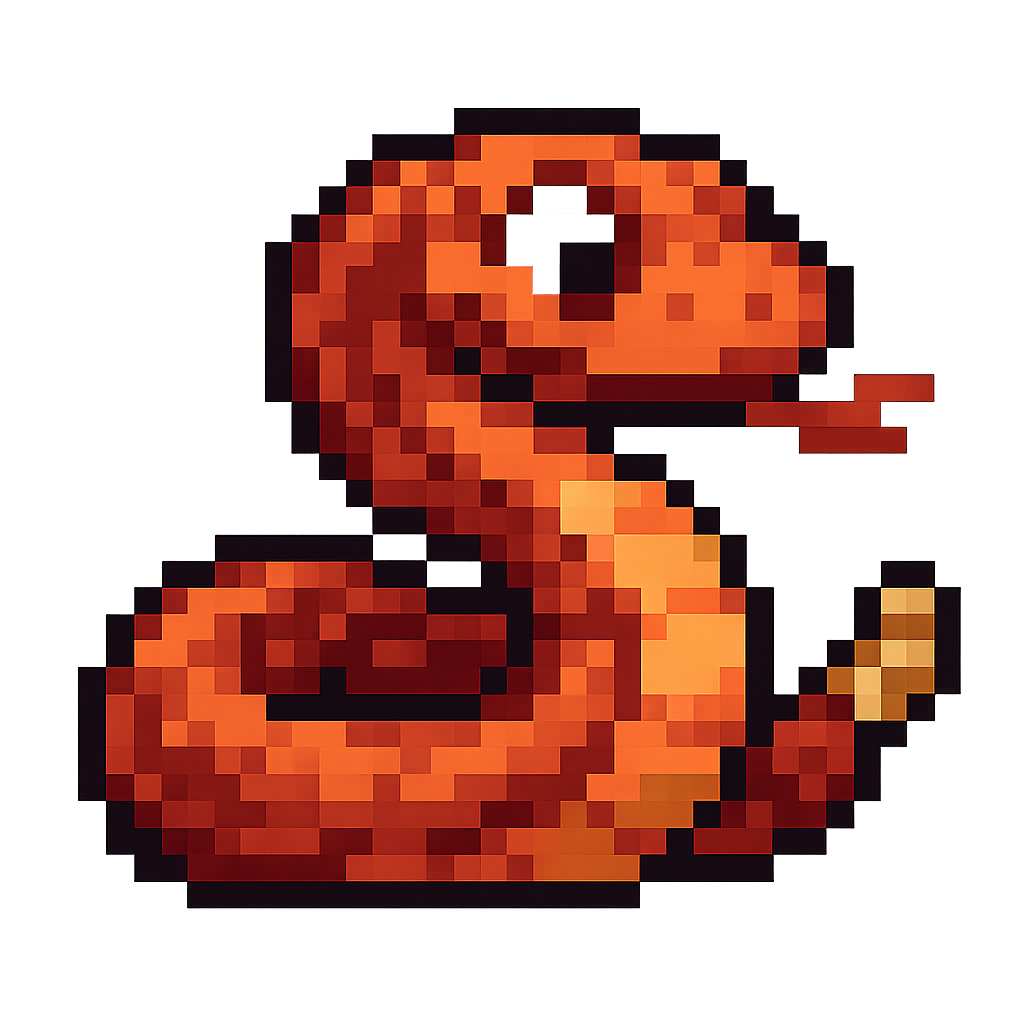
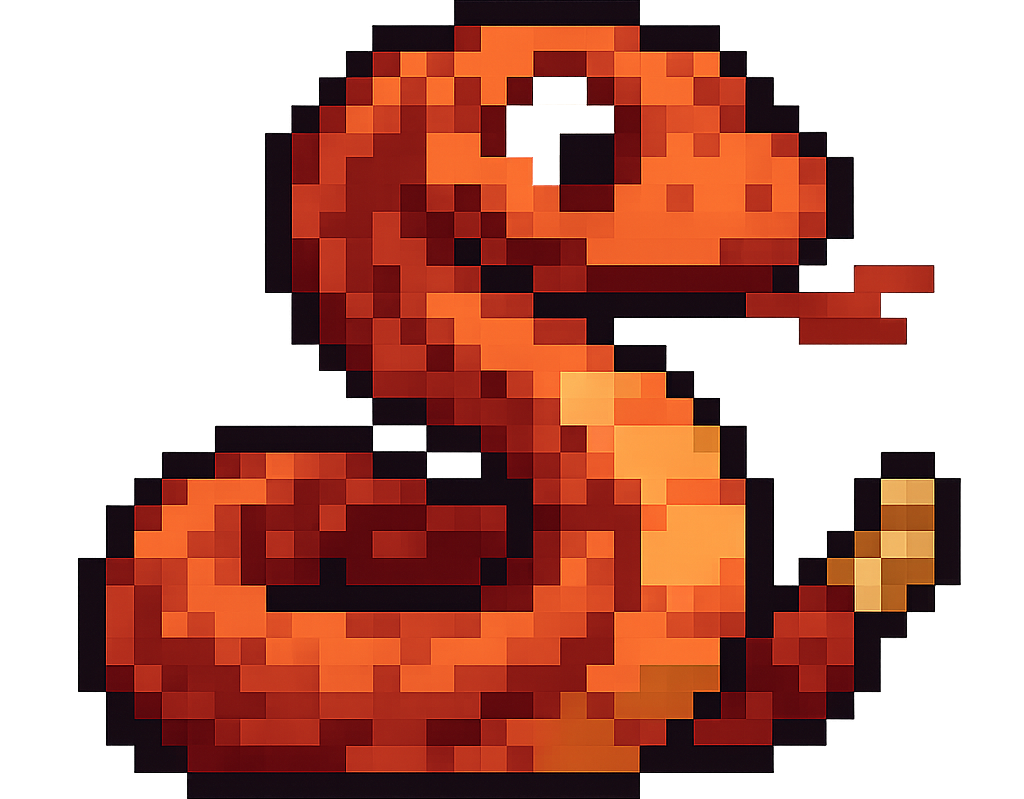
Add jump graphic for boss and dart frog and make it so that dart frog is included in waves. Add ability to drop through lily pads to the water with down action. Tweak title screen. Clean up some warnings we were getting in the JS console. v0.4.3

diff --git a/game.js b/game.js
@@ -46,8 +46,10 @@ const assets = {
         'frog_small_jumping': 'graphics/frog_small_jumping.png',
         'frog_medium_idle': 'graphics/frog_medium_idle.png',
         'frog_medium_jumping': 'graphics/frog_medium_jumping.png',
-        'frog_large_boss': 'graphics/frog_large_boss.png',
-        'frog_poison_dart': 'graphics/frog_poison_dart.png',
+        'frog_large_boss_idle': 'graphics/frog_large_boss_idle.png',
+        'frog_large_boss_jumping': 'graphics/frog_large_boss_jumping.png',
+        'frog_poison_dart_idle': 'graphics/frog_poison_dart_idle.png',
+        'frog_poison_dart_jumping': 'graphics/frog_poison_dart_jumping.png',
 
         // Environment
         'lilypad_small': 'graphics/lilypad_small.png',
@@ -148,21 +150,21 @@ const audioManager = {
             this.longPressTimer = setTimeout(() => {
                 this.showVolumeMenu();
             }, 500);
-        });
+        }, { passive: true });
 
         this.toggleButton.addEventListener('touchend', () => {
             if (this.longPressTimer) {
                 clearTimeout(this.longPressTimer);
                 this.longPressTimer = null;
             }
-        });
+        }, { passive: true });
 
         this.toggleButton.addEventListener('touchmove', () => {
             if (this.longPressTimer) {
                 clearTimeout(this.longPressTimer);
                 this.longPressTimer = null;
             }
-        });
+        }, { passive: true });
 
         // Close menu when clicking outside
         document.addEventListener('click', (e) => {
@@ -193,7 +195,7 @@ const audioManager = {
         };
         document.addEventListener('click', startAudioOnInteraction);
         document.addEventListener('keydown', startAudioOnInteraction);
-        document.addEventListener('touchstart', startAudioOnInteraction);
+        document.addEventListener('touchstart', startAudioOnInteraction, { passive: true });
     },
 
     initVolumeSliders() {
@@ -444,12 +446,27 @@ class Entity {
                              this.y + this.height >= pad.y - 5 &&  // 5px tolerance above
                              this.y + this.height <= pad.y + 15;   // 15px tolerance below
 
-            if (isNearPad && this.vy >= 0) {
+            if (isNearPad && this.vy >= 0 && !this.droppingThrough) {
                 this.y = pad.y - this.height;
                 this.vy = 0;
                 this.onGround = true;
                 onLilyPad = true;
                 break;
+            }
+        }
+        // Reset droppingThrough flag if we've passed below all lily pads
+        if (this.droppingThrough) {
+            let stillDroppingThrough = false;
+            for (const pad of game.lilyPads) {
+                const overlapsHorizontally = this.x < pad.x + pad.width && this.x + this.width > pad.x;
+                const isAboveOrNear = this.y + this.height <= pad.y + 20;
+                if (overlapsHorizontally && isAboveOrNear) {
+                    stillDroppingThrough = true;
+                    break;
+                }
+            }
+            if (!stillDroppingThrough) {
+                this.droppingThrough = false;
             }
         }
 
@@ -494,6 +511,7 @@ class Snake extends Entity {
         this.grabCooldown = 0;
         this.invulnerable = 0;
         this.segments = [];
+        this.droppingThrough = false; // Flag for dropping through lily pads
         this.initSegments();
     }
 
@@ -573,6 +591,20 @@ class Snake extends Entity {
             this.onGround = false;
             if (this.inWater) {
                 createSplash(this.x + this.width / 2, this.y + this.height);
+            }
+        }
+
+        // Drop through lily pad
+        if (playerInput.y > 0 && this.onGround && !this.inWater && !this.droppingThrough) {
+            // Check if on a lily pad (not on water surface)
+            for (const pad of game.lilyPads) {
+                const isOnPad = this.x < pad.x + pad.width &&
+                               this.x + this.width > pad.x &&
+                               Math.abs(this.y + this.height - pad.y) < 5;
+                if (isOnPad) {
+                    this.droppingThrough = true;
+                    break;
+                }
             }
         }
 
@@ -800,15 +832,16 @@ class Frog extends Entity {
     constructor(x, y, type = 'small') {
         super(x, y, 30, 30);
         this.type = type;
-        this.health = type === 'small' ? 20 : type === 'medium' ? 40 : 80;
+        this.health = type === 'small' ? 20 : type === 'medium' ? 40 : type === 'poison_dart' ? 15 : 80;
         this.maxHealth = this.health;
         this.alive = true;
         this.jumpTimer = 0;
         this.jumpCooldown = Math.random() * 60 + 40;
-        this.color = type === 'small' ? '#4CAF50' : type === 'medium' ? '#2196F3' : '#FF5722';
+        this.color = type === 'small' ? '#4CAF50' : type === 'medium' ? '#2196F3' : type === 'poison_dart' ? '#FF00FF' : '#FF5722';
         this.attackTimer = 0;
         this.facing = 1; // 1 = right, -1 = left
         this.groundedFrames = 0; // Track how long we've been on ground
+        this.hueRotation = type === 'poison_dart' ? Math.floor(Math.random() * 360) : 0; // Random color for poison darts
 
         // Type specific properties
         if (type === 'small') {
@@ -819,6 +852,10 @@ class Frog extends Entity {
             this.width = 40;
             this.height = 40;
             this.jumpPower = 12;
+        } else if (type === 'poison_dart') {
+            this.width = 25;
+            this.height = 25;
+            this.jumpPower = 14;
         } else {
             this.width = 60;
             this.height = 60;
@@ -865,7 +902,7 @@ class Frog extends Entity {
             const dist = Math.sqrt(dx * dx + dy * dy);
 
             if (dist < 35) {
-                target.takeDamage(this.type === 'small' ? 3 : this.type === 'medium' ? 6 : 12);
+                target.takeDamage(this.type === 'small' ? 3 : this.type === 'medium' ? 6 : this.type === 'poison_dart' ? 10 : 12);
                 this.attackTimer = 0;
             }
         }
@@ -906,19 +943,22 @@ class Frog extends Entity {
 
     die() {
         this.alive = false;
-        game.score += this.type === 'small' ? 10 : this.type === 'medium' ? 25 : 50;
+        game.score += this.type === 'small' ? 10 : this.type === 'medium' ? 25 : this.type === 'poison_dart' ? 35 : 50;
         createDeathEffect(this.x + this.width / 2, this.y + this.height / 2);
     }
 
     draw(ctx) {
         if (!this.alive) return;
 
+
         // Determine which sprite to use
         // Require 3 frames on ground before showing idle sprite to prevent jittering
         const isInAir = this.groundedFrames < 3;
         let spriteName;
         if (this.type === 'large') {
-            spriteName = 'frog_large_boss';
+            spriteName = isInAir ? 'frog_large_boss_jumping' : 'frog_large_boss_idle';
+        } else if (this.type === 'poison_dart') {
+            spriteName = isInAir ? 'frog_poison_dart_jumping' : 'frog_poison_dart_idle';
         } else if (this.type === 'medium') {
             spriteName = isInAir ? 'frog_medium_jumping' : 'frog_medium_idle';
         } else {
@@ -957,6 +997,10 @@ class Frog extends Entity {
 
             // Flip sprite based on facing direction
             ctx.save();
+            // Apply hue rotation for poison dart frogs
+            if (this.type === 'poison_dart') {
+                ctx.filter = `hue-rotate(${this.hueRotation}deg)`;
+            }
             if (this.facing < 0) {
                 ctx.translate(drawX + spriteWidth / 2, drawY + spriteHeight / 2);
                 ctx.scale(-1, 1);
@@ -1230,8 +1274,8 @@ function initGame() {
 
             // Check if clicked on left snake (P1)
             const leftSnakeX = 270;
-            const leftSnakeY = 200;
-            const snakeSize = 85;
+            const leftSnakeY = 195;
+            const snakeSize = 66; // Match green snake size
             const leftHitbox = {
                 x: leftSnakeX - snakeSize / 2,
                 y: leftSnakeY - snakeSize / 2,
@@ -1241,7 +1285,7 @@ function initGame() {
 
             // Check if clicked on right snake (P2)
             const rightSnakeX = CONFIG.CANVAS_WIDTH - 270;
-            const rightSnakeY = 200;
+            const rightSnakeY = 195;
             const rightHitbox = {
                 x: rightSnakeX - snakeSize / 2,
                 y: rightSnakeY - snakeSize / 2,
@@ -1269,7 +1313,7 @@ function initGame() {
             makeTitleSnakesJump();
         };
         titleScreen.addEventListener('click', handleTitleClick);
-        titleScreen.addEventListener('touchstart', handleTitleClick);
+        titleScreen.addEventListener('touchstart', handleTitleClick, { passive: true });
 
         // Add hover cursor for snakes
         const handleTitleHover = (e) => {
@@ -1279,16 +1323,16 @@ function initGame() {
             const mouseX = (e.clientX - rect.left) * scaleX;
             const mouseY = (e.clientY - rect.top) * scaleY;
 
-            const snakeSize = 85;
+            const snakeSize = 66; // Match green snake size
             const leftSnakeHitbox = {
                 x: 270 - snakeSize / 2,
-                y: 200 - snakeSize / 2,
+                y: 195 - snakeSize / 2,
                 width: snakeSize,
                 height: snakeSize
             };
             const rightSnakeHitbox = {
                 x: (CONFIG.CANVAS_WIDTH - 270) - snakeSize / 2,
-                y: 200 - snakeSize / 2,
+                y: 195 - snakeSize / 2,
                 width: snakeSize,
                 height: snakeSize
             };
@@ -1333,9 +1377,9 @@ function drawTitleScreen() {
     const leftSprite = game.titleSnakes.left.jumping ?
         assets.get('snake_p1_jumping') : assets.get('snake_p1_idle');
     if (leftSprite && leftSprite.complete) {
-        const snakeSize = 85;
+        const snakeSize = 66; // Smaller size for green snake
         const snakeX = 270;
-        const snakeY = 200 + game.titleSnakes.left.y;
+        const snakeY = 195 + game.titleSnakes.left.y;
         const aspect = leftSprite.width / leftSprite.height;
         const width = snakeSize;
         const height = width / aspect;
@@ -1349,7 +1393,7 @@ function drawTitleScreen() {
         const logoWidth = logo.width * logoScale;
         const logoHeight = logo.height * logoScale;
         const logoX = (CONFIG.CANVAS_WIDTH - logoWidth) / 2;
-        const logoY = 0;
+        const logoY = -10;
         ctx.drawImage(logo, logoX, logoY, logoWidth, logoHeight);
     }
 
@@ -1357,9 +1401,9 @@ function drawTitleScreen() {
     const rightSprite = game.titleSnakes.right.jumping ?
         assets.get('snake_p2_jumping') : assets.get('snake_p2_idle');
     if (rightSprite && rightSprite.complete) {
-        const snakeSize = 85;
+        const snakeSize = 98;
         const snakeX = CONFIG.CANVAS_WIDTH - 270;
-        const snakeY = 200 + game.titleSnakes.right.y;
+        const snakeY = 195 + game.titleSnakes.right.y;
         const aspect = rightSprite.width / rightSprite.height;
         const width = snakeSize;
         const height = width / aspect;
@@ -1494,8 +1538,12 @@ function setupControls() {
         }
     });
 
-    // Mobile touch controls
-    setupMobileControls();
+    // Mobile touch controls - only register on mobile/touch devices
+    const isMobile = window.matchMedia('(max-width: 768px)').matches ||
+                     window.matchMedia('(pointer: coarse)').matches;
+    if (isMobile) {
+        setupMobileControls();
+    }
 }
 
 function setupMobileControls() {
@@ -1509,28 +1557,25 @@ function setupMobileControls() {
         let touchId = null;
 
         joystick.addEventListener('touchstart', (e) => {
-            e.preventDefault();
             touchId = e.changedTouches[0].identifier;
             handleJoystickMove(e.changedTouches[0], joystick, stick, playerId);
-        });
+        }, { passive: true });
 
         joystick.addEventListener('touchmove', (e) => {
-            e.preventDefault();
             for (let touch of e.changedTouches) {
                 if (touch.identifier === touchId) {
                     handleJoystickMove(touch, joystick, stick, playerId);
                 }
             }
-        });
+        }, { passive: true });
 
         joystick.addEventListener('touchend', (e) => {
-            e.preventDefault();
             stick.style.transform = 'translate(-50%, -50%)';
             const playerInput = playerId === 1 ? input.player1 : input.player2;
             playerInput.x = 0;
             playerInput.y = 0;
             touchId = null;
-        });
+        }, { passive: true });
     });
 
     // Action buttons
@@ -1539,22 +1584,20 @@ function setupMobileControls() {
         const playerInput = playerId === 1 ? input.player1 : input.player2;
 
         btn.addEventListener('touchstart', (e) => {
-            e.preventDefault();
             if (btn.classList.contains('roll-btn')) {
                 playerInput.roll = true;
             } else if (btn.classList.contains('grab-btn')) {
                 playerInput.grab = true;
             }
-        });
+        }, { passive: true });
 
         btn.addEventListener('touchend', (e) => {
-            e.preventDefault();
             if (btn.classList.contains('roll-btn')) {
                 playerInput.roll = false;
             } else if (btn.classList.contains('grab-btn')) {
                 playerInput.grab = false;
             }
-        });
+        }, { passive: true });
     });
 }
 
@@ -1709,6 +1752,7 @@ function spawnWave() {
         const y = 100;
         let type = 'small';
         if (game.wave > 2 && Math.random() < 0.3) type = 'medium';
+        if (game.wave > 3 && Math.random() < 0.2) type = 'poison_dart';
         if (game.wave > 5 && Math.random() < 0.1) type = 'large';
 
         game.enemies.push(new Frog(x, y, type));

diff --git a/index.html b/index.html
@@ -75,8 +75,8 @@
                 <div class="controls-section desktop-only">
                     <p>Click Start for 2-player co-op, or click a snake for solo play</p>
                     <h3>Desktop Controls</h3>
-                    <p><strong>Player 1 (Green Snake):</strong> Arrow keys to move | 0 to roll | Right Ctrl to whip</p>
-                    <p><strong>Player 2 (Orange Snake):</strong> WASD to move | F to roll | G to whip</p>
+                    <p><strong>Player 1:</strong> Arrow keys to move | 0 to roll | Right Ctrl to whip</p>
+                    <p><strong>Player 2:</strong> WASD to move | F to roll | G to whip</p>
                 </div>
                 <div class="controls-section mobile-only">
                     <h3>Mobile Controls</h3>
@@ -164,7 +164,7 @@
         </div>
     </div>
 
-    <div id="version">v0.4.1</div>
+    <div id="version">v0.4.3</div>
 
     <!-- Audio Toggle Button -->
     <button id="audioToggle" class="audio-toggle" aria-label="Toggle audio">

diff --git a/style.css b/style.css
@@ -126,6 +126,10 @@ body {
     margin: 20px 0;
 }
 
+.controls-section p {
+    font-size: clamp(0.75rem, 2vw, 0.95rem);
+}
+
 /* Game Screen */
 #gameScreen {
     background: #1a4d2e;

diff --git a/README.md b/README.md
@@ -1,6 +1,6 @@
 # Snake Style 🐍⚔
 
-**Version 0.4.1** - A swamp-based 2-player cooperative beat 'em up arcade game
+**Version 0.4.3** - A swamp-based 2-player cooperative beat 'em up arcade game
 
 Fight alongside your friend as serpent warriors defending the swamp from endless waves of hostile frogs!
 
@@ -137,7 +137,12 @@ All pixel art graphics are located in the `/graphics` folder:
 
 ## 📝 Version History
 
-### v0.4.1 (Current)
+### v0.4.3 (Current)
+- 🐸 Added poison dart frogs as fast & deadly enemies (wave 4+, random colors)
+- 🎨 Moved green snake and title up 10 pixels on title screen
+- ⬇ Added ability to drop through lily pads with down key
+
+### v0.4.2
 - 📱 Added comprehensive Open Graph and Twitter Card meta tags for social media sharing
 - 🔍 Added SEO meta tags including description, keywords, and structured data
 - 🌐 Added JSON-LD schema markup for search engines
